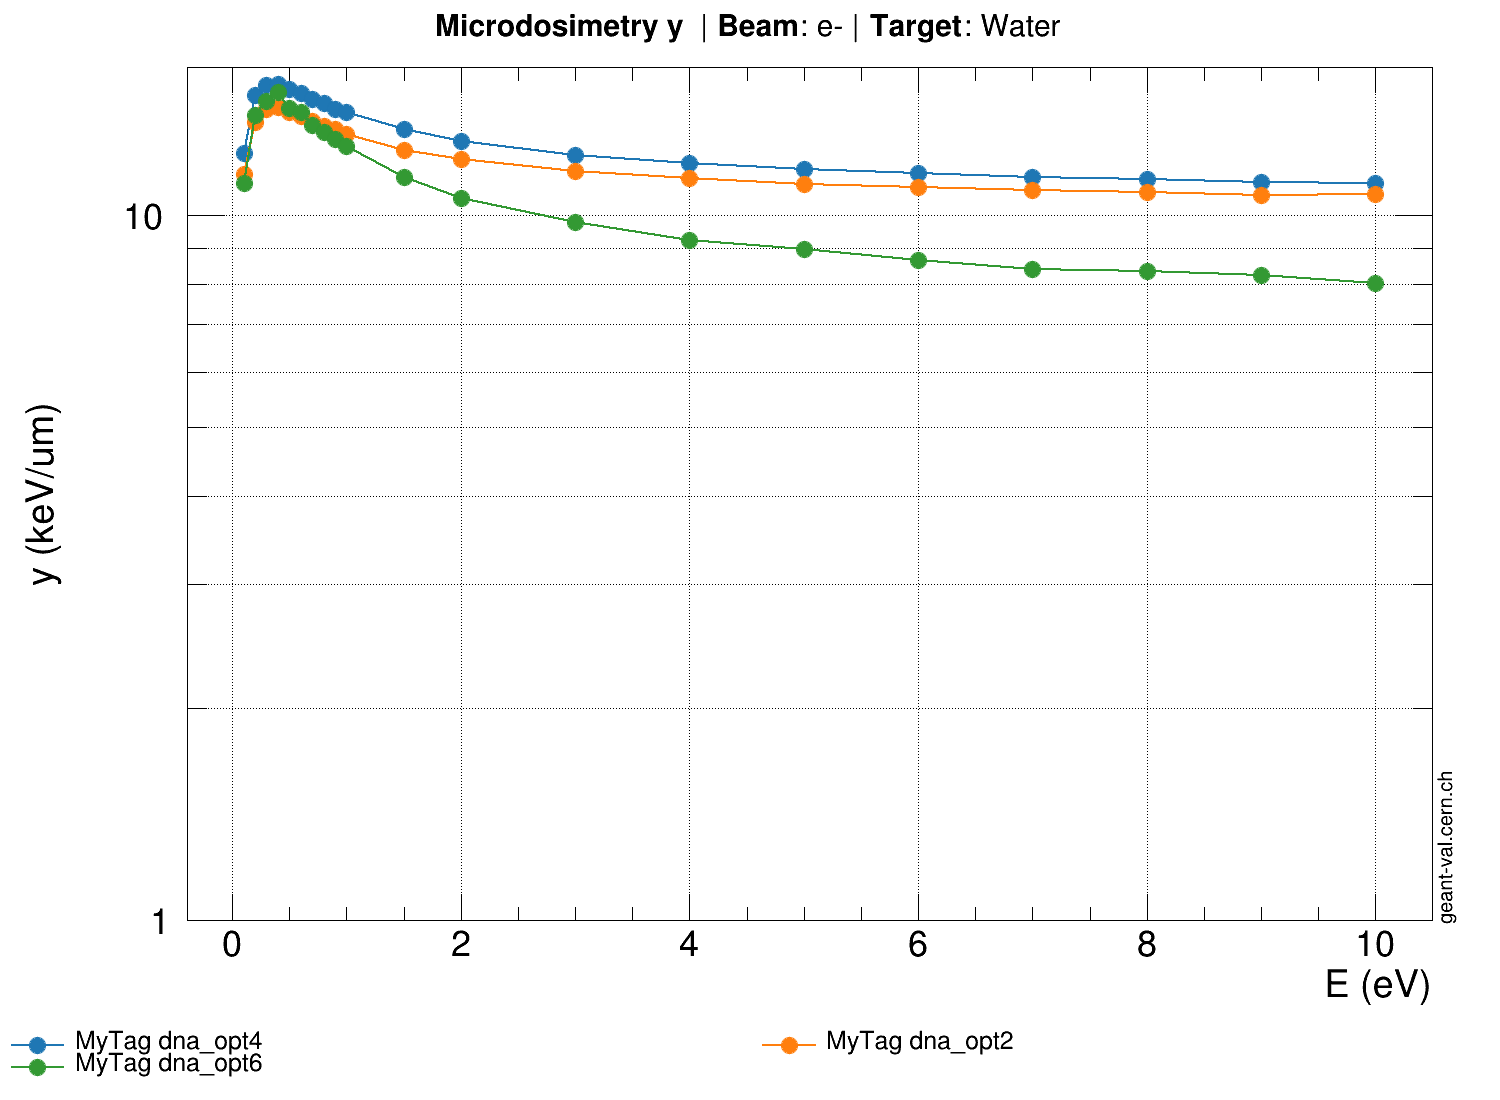
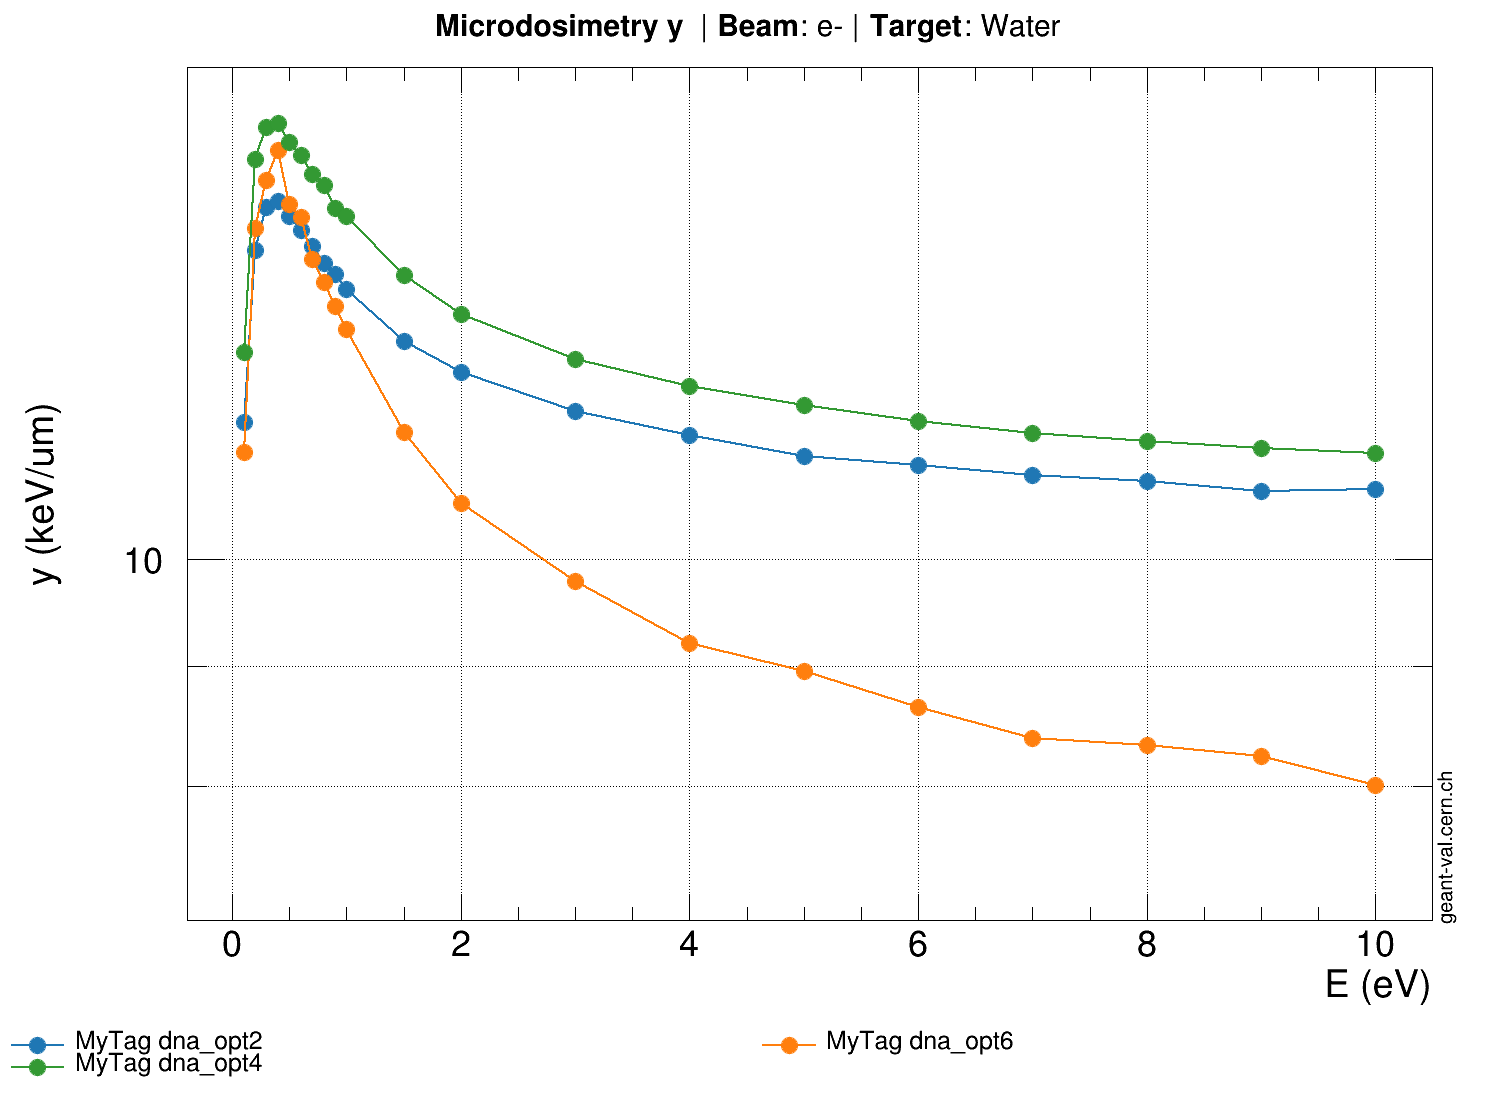
microyz : lun. mars 20 17:23:51 CET 2023

diff --git a/assets/OUTPUTJSON/geant4/MyTag/x86_64/microyz/params.conf.c b/assets/OUTPUTJSON/geant4/MyTag/x86_64/microyz/params.conf.c
@@ -286,3 +286,291 @@ double gvp_id-1_yerrors[20] = {
   0,
   0
 };
+// Tool:               GEANT4
+// Version:            MyTag
+// Model:              dna_opt2
+// Observable:         microdosimetry y
+// Target:             Water
+// Beam Particle:      e-
+// Secondary Particle: None
+
+double gvp_id-1_x[20] = {
+  0.1,
+  0.2,
+  0.3,
+  0.4,
+  0.5,
+  0.6,
+  0.7,
+  0.8,
+  0.9,
+  1,
+  1.5,
+  2,
+  3,
+  4,
+  5,
+  6,
+  7,
+  8,
+  9,
+  10
+};
+double gvp_id-1_y[20] = {
+  11.4532,
+  13.5666,
+  14.157,
+  14.2423,
+  14.0224,
+  13.8341,
+  13.6129,
+  13.3889,
+  13.2541,
+  13.0557,
+  12.396,
+  12.0224,
+  11.5717,
+  11.308,
+  11.0767,
+  10.9753,
+  10.8657,
+  10.7992,
+  10.6998,
+  10.7158
+};
+double gvp_id-1_xerrors[20] = {
+  0,
+  0,
+  0,
+  0,
+  0,
+  0,
+  0,
+  0,
+  0,
+  0,
+  0,
+  0,
+  0,
+  0,
+  0,
+  0,
+  0,
+  0,
+  0,
+  0
+};
+double gvp_id-1_yerrors[20] = {
+  0,
+  0,
+  0,
+  0,
+  0,
+  0,
+  0,
+  0,
+  0,
+  0,
+  0,
+  0,
+  0,
+  0,
+  0,
+  0,
+  0,
+  0,
+  0,
+  0
+};
+// Tool:               GEANT4
+// Version:            MyTag
+// Model:              dna_opt6
+// Observable:         microdosimetry y
+// Target:             Water
+// Beam Particle:      e-
+// Secondary Particle: None
+
+double gvp_id-1_x[20] = {
+  0.1,
+  0.2,
+  0.3,
+  0.4,
+  0.5,
+  0.6,
+  0.7,
+  0.8,
+  0.9,
+  1,
+  1.5,
+  2,
+  3,
+  4,
+  5,
+  6,
+  7,
+  8,
+  9,
+  10
+};
+double gvp_id-1_y[20] = {
+  11.1154,
+  13.8556,
+  14.5388,
+  14.9632,
+  14.199,
+  14.0098,
+  13.442,
+  13.1489,
+  12.8361,
+  12.5542,
+  11.3415,
+  10.5747,
+  9.7842,
+  9.21224,
+  8.95579,
+  8.64858,
+  8.38295,
+  8.32887,
+  8.23546,
+  8.00403
+};
+double gvp_id-1_xerrors[20] = {
+  0,
+  0,
+  0,
+  0,
+  0,
+  0,
+  0,
+  0,
+  0,
+  0,
+  0,
+  0,
+  0,
+  0,
+  0,
+  0,
+  0,
+  0,
+  0,
+  0
+};
+double gvp_id-1_yerrors[20] = {
+  0,
+  0,
+  0,
+  0,
+  0,
+  0,
+  0,
+  0,
+  0,
+  0,
+  0,
+  0,
+  0,
+  0,
+  0,
+  0,
+  0,
+  0,
+  0,
+  0
+};
+// Tool:               GEANT4
+// Version:            MyTag
+// Model:              dna_opt4
+// Observable:         microdosimetry y
+// Target:             Water
+// Beam Particle:      e-
+// Secondary Particle: None
+
+double gvp_id-1_x[20] = {
+  0.1,
+  0.2,
+  0.3,
+  0.4,
+  0.5,
+  0.6,
+  0.7,
+  0.8,
+  0.9,
+  1,
+  1.5,
+  2,
+  3,
+  4,
+  5,
+  6,
+  7,
+  8,
+  9,
+  10
+};
+double gvp_id-1_y[20] = {
+  12.2663,
+  14.8344,
+  15.3154,
+  15.3785,
+  15.0927,
+  14.8903,
+  14.6207,
+  14.4564,
+  14.1387,
+  14.0209,
+  13.2357,
+  12.7389,
+  12.1805,
+  11.8584,
+  11.6466,
+  11.4635,
+  11.3264,
+  11.242,
+  11.1559,
+  11.1081
+};
+double gvp_id-1_xerrors[20] = {
+  0,
+  0,
+  0,
+  0,
+  0,
+  0,
+  0,
+  0,
+  0,
+  0,
+  0,
+  0,
+  0,
+  0,
+  0,
+  0,
+  0,
+  0,
+  0,
+  0
+};
+double gvp_id-1_yerrors[20] = {
+  0,
+  0,
+  0,
+  0,
+  0,
+  0,
+  0,
+  0,
+  0,
+  0,
+  0,
+  0,
+  0,
+  0,
+  0,
+  0,
+  0,
+  0,
+  0,
+  0
+};
